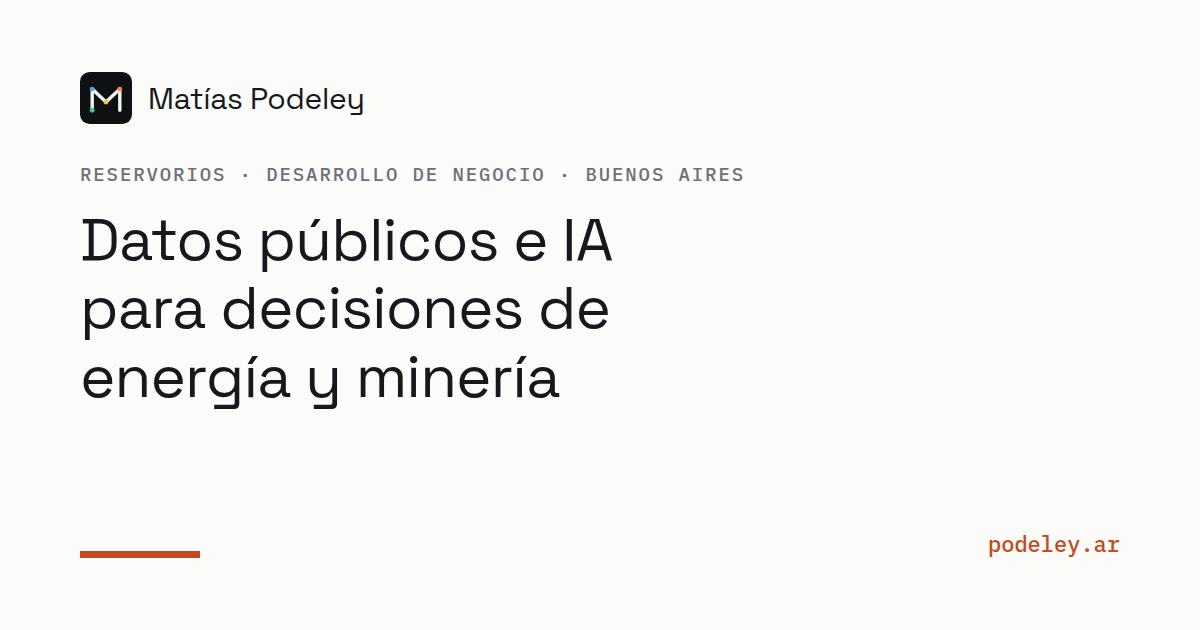
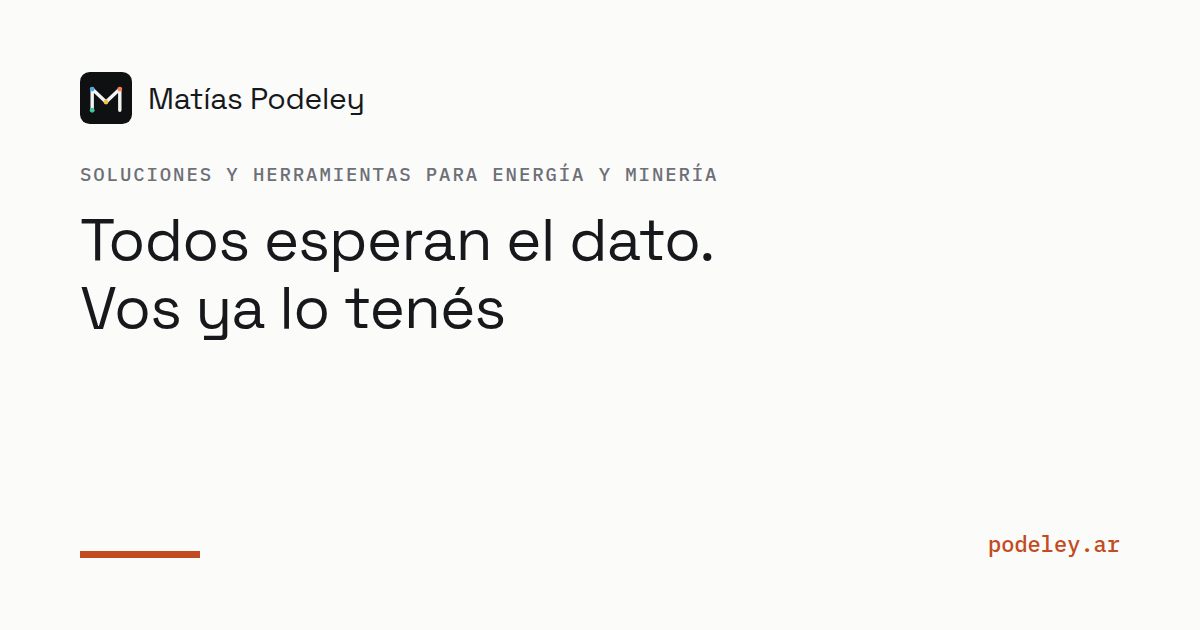
El home abre con el hook: "Todos esperan el dato. Vos ya lo tenés"
Decisión suya, brief Don Draper: el descriptor "Soluciones y herramientas
para energía y minería" baja a la bajada y a los eyebrows de las tarjetas
OG del home, que se regeneraron con el titular nuevo en los dos idiomas.

diff --git a/src/pages/index.es.html b/src/pages/index.es.html
@@ -1,16 +1,16 @@
 <!--meta
 {
-  "title": "Matías Podeley — herramientas de datos para energía y minería",
+  "title": "Matías Podeley — soluciones y herramientas para energía y minería",
   "description": "Diez herramientas en línea sobre datos públicos: actividad de la competencia, catastro minero, deformación del suelo, red de gas. Construidas por un ingeniero con dieciocho años en energía.",
   "ogImage": "/assets/og/home.es.png",
-  "ogImageAlt": "Matías Podeley — datos públicos e IA para decisiones de energía y minería"
+  "ogImageAlt": "Matías Podeley — soluciones y herramientas para energía y minería"
 }
 -->
 
 <section class="hero wrap">
   <p class="kicker"><a class="link-plain" href="/perfil/">Matías Podeley</a> · Reservorios y desarrollo de negocio · Buenos Aires</p>
-  <h1>Datos públicos e IA para decisiones de energía y minería</h1>
-  <p class="hero-sub">Diez herramientas en línea, construidas por un ingeniero con dieciocho años adentro de la industria. Qué hizo la competencia mientras el registro oficial todavía no lo dice, quién tiene el suelo en seis provincias, cómo viene la red de gas esta mañana — y de dónde sale cada número.</p>
+  <h1>Todos esperan el dato. Vos ya lo tenés</h1>
+  <p class="hero-sub">Soluciones y herramientas para energía y minería: diez están en línea, construidas con datos públicos e IA por un ingeniero con dieciocho años adentro de la industria. Qué hizo la competencia mientras el registro oficial todavía no lo dice, quién tiene el suelo en seis provincias, cómo viene la red de gas esta mañana — y de dónde sale cada número.</p>
   <p class="hero-cta"><a class="btn btn--primary" href="mailto:matias@podeley.ar?subject=Consulta%20%E2%80%94%20podeley.ar&amp;body=Hola%20Matias%2C%0A%0A">Contame qué decisión tenés adelante</a> <a class="link-plain" href="#areas">Ver por área <span class="arw">↓</span></a></p>
 </section>
 

diff --git a/src/pages/index.en.html b/src/pages/index.en.html
@@ -1,16 +1,16 @@
 <!--meta
 {
-  "title": "Matías Podeley — data tools for energy and mining",
+  "title": "Matías Podeley — solutions and tools for energy and mining",
   "description": "Ten live tools on public data: competitor activity, mining title, ground deformation, the gas network. Built by an engineer with eighteen years in energy.",
   "ogImage": "/assets/og/home.en.png",
-  "ogImageAlt": "Matías Podeley — public data and AI for energy and mining decisions"
+  "ogImageAlt": "Matías Podeley — solutions and tools for energy and mining"
 }
 -->
 
 <section class="hero wrap">
   <p class="kicker"><a class="link-plain" href="/en/perfil/">Matías Podeley</a> · Reservoir engineering &amp; business development · Buenos Aires</p>
-  <h1>Public data and AI for energy and mining decisions</h1>
-  <p class="hero-sub">Ten tools, live, built by an engineer with eighteen years inside the industry. What competitors did while the official registry still says nothing, who holds the ground across six provinces, how the gas grid looks this morning — and where every number comes from.</p>
+  <h1>Everyone waits for the data. You already have it</h1>
+  <p class="hero-sub">Solutions and tools for energy and mining: ten are live, built from public data and AI by an engineer with eighteen years inside the industry. What competitors did while the official registry still says nothing, who holds the ground across six provinces, how the gas grid looks this morning — and where every number comes from.</p>
   <p class="hero-cta"><a class="btn btn--primary" href="mailto:matias@podeley.ar?subject=Inquiry%20%E2%80%94%20podeley.ar&amp;body=Hi%20Matias%2C%0A%0A">Tell me what decision you're facing</a> <a class="link-plain" href="#areas">Browse by area <span class="arw">↓</span></a></p>
 </section>
 
